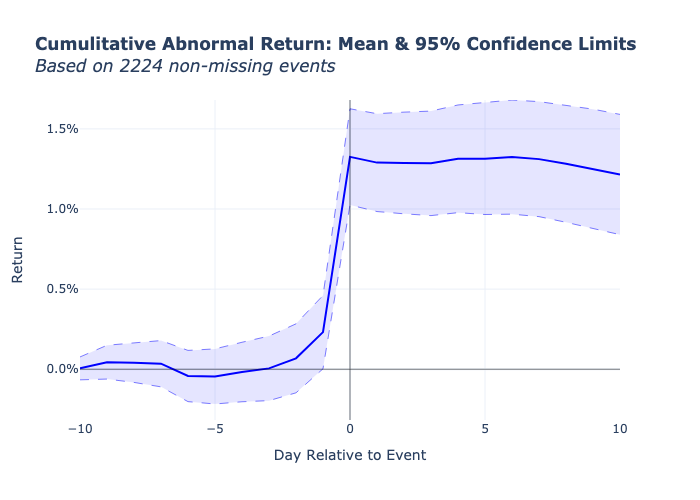
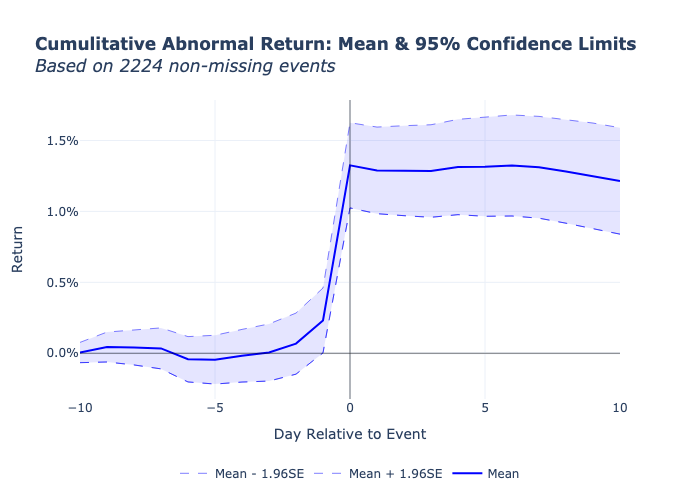
adding joint graph service

diff --git a/easy_es/utils.py b/easy_es/utils.py
@@ -51,7 +51,7 @@ def calculate_car_stats(event_res_df: pd.DataFrame, critical_value: float = 0.95
     return stat_car_df
 
 
-def plot_mean_car(event_res_df: pd.DataFrame, critical_value: float = 0.95) -> go.Figure:
+def plot_mean_car(event_res_df: pd.DataFrame, critical_value: float = 0.95, color_rgb: str = '0, 0, 255') -> go.Figure:
     """
     Function to plot the mean CAR effect with confidence levels over the event window
     Parameters
@@ -60,6 +60,8 @@ def plot_mean_car(event_res_df: pd.DataFrame, critical_value: float = 0.95) -> g
         Result dataframe from the output of event-study. Should contain event_id, offset, and car columns.
     critical_value : float, optional
         Critical value to use in confidence intervals estimation, by default 0.95
+    color_rgb: str
+        String specifying rgb color to be used in the plot. Default, blue (0,0,255)
 
     Returns
     -------
@@ -67,34 +69,44 @@ def plot_mean_car(event_res_df: pd.DataFrame, critical_value: float = 0.95) -> g
         Plotly figure
     """
     plot_df = calculate_car_stats(event_res_df=event_res_df, critical_value=critical_value)
+    conf_level = np.round(- norm.ppf((1-critical_value) / 2), 2)
     # Add Mean Trace
     trace_one = go.Scatter(
         x=plot_df.index,
         y=plot_df['mean'],
-        name='mean',
-        showlegend=False,
+        name='Mean',
+        showlegend=True,
         mode='lines',
-        line=dict(color='rgb(0, 0, 255)')
+        line=dict(color=f'rgb({color_rgb})')
     )
     # Add trace for the upper bound
     trace_fill_one = go.Scatter(
         x=plot_df.index,
         y=plot_df['upper_ci'],
-        name='Upper CI',
+        name=f'Mean + {conf_level}SE',
         mode='lines',
-        line=dict(width=1, color='rgba(0, 0, 255, 0.5)', dash='dash'),
-        showlegend=False,
+        line=dict(width=1, color=f'rgba({color_rgb}, 0.5)', dash='dash'),
+        showlegend=True,
         
     )
     # Add trace for the lower bound
     trace_fill_two = go.Scatter(
         x=plot_df.index,
         y=plot_df['lower_ci'],
-        fill='tonextx',
-        name='Lower CI',
+        name=f'Mean - {conf_level}SE',
         mode='lines',
-        fillcolor='rgba(0,0,255,0.1)',
-        line=dict(width=1, color='rgba(0, 0,255, 0.5)', dash='dash'),
+        line=dict(width=1, color=f'rgba({color_rgb}, 0.5)', dash='dash'),
+        showlegend=True,
+    )
+    # Add trace for the lower bound
+    trace_fill_two_shade = go.Scatter(
+        x=plot_df.index,
+        y=plot_df['lower_ci'],
+        fill='tonextx',
+        name='ShadedArea',
+        mode='lines',
+        fillcolor=f'rgba({color_rgb},0.1)',
+        line=dict(width=1, color=f'rgba({color_rgb}, 0.5)', dash='dash'),
         showlegend=False,
     )
     # Update layout  
@@ -104,13 +116,20 @@ def plot_mean_car(event_res_df: pd.DataFrame, critical_value: float = 0.95) -> g
         template='plotly_white',
         xaxis_title='Day Relative to Event',
         yaxis_title='Return',
-        yaxis_tickformat=',.1%'
+        yaxis_tickformat=',.1%',
+        legend=dict(
+                orientation="h",
+                xanchor = "center",
+                x=0.5,
+                y=-0.2
+        )        
     )
     fig = go.Figure(data=[
         trace_one, 
         trace_fill_one,
+        trace_fill_two_shade,
         trace_fill_two
-        ], layout=layout,
+        ], layout=layout
     )
     fig.add_vline(
         x=0, 
@@ -121,3 +140,53 @@ def plot_mean_car(event_res_df: pd.DataFrame, critical_value: float = 0.95) -> g
         line_width=1, 
         line_color='rgba(0, 0,0, 0.5)')
     return fig
+
+
+def plot_joint_mean_car(event_res_one: pd.DataFrame, event_res_two: pd.DataFrame, 
+                        name_one: str, name_two: str,  critical_value: float = 0.95) -> go.Figure:
+    """
+    Function to plot two mean CAR effects with confidence levels ont the same plot.
+    
+    Parameters
+    ----------
+    event_res_one : pd.DataFrame
+        First result dataframe from the output of event-study. Should contain event_id, offset, and car columns.
+    event_res_two : pd.DataFrame
+        Second result dataframe from the output of event-study. Should contain event_id, offset, and car columns.
+    name_one : str
+        Name of the first event study
+    name_two : str
+        Name of the second event study
+    critical_value : float, optional
+        Critical value to use in confidence intervals estimation, by default 0.95
+    Returns
+    -------
+    go.Figure
+        Plotly figure
+    """
+    fig_one = plot_mean_car(event_res_one)
+    fig_two = plot_mean_car(event_res_two, color_rgb='0, 153, 0')
+    for trace in fig_one.data:
+        trace.legendgroup = 'group1'
+        trace.legendgrouptitle=dict(text=f'<b>{name_one}</b> ({event_res_one[ColumnNameHandler.event_id_col].nunique()} events)')
+
+    for trace in fig_two.data:
+        trace.legendgroup = 'group2'
+        trace.legendgrouptitle=dict(text=f'<b>{name_two}</b> ({event_res_two[ColumnNameHandler.event_id_col].nunique()} events)')
+
+    for trace in fig_one.data:
+        fig_two.add_trace(trace)
+
+    fig_two.update_layout(
+        title=f"""<b>Cumulitative Abnormal Return: Mean & {round(critical_value*100)}% Confidence Limits</b><br>""",
+        legend=dict(
+            tracegroupgap=50,
+            orientation="h",
+            xanchor = "center",
+            x=0.55,
+            y=-0.3,
+            entrywidth=200,
+            traceorder='grouped'
+        )
+    )
+    return fig_two

diff --git a/setup.py b/setup.py
@@ -1,6 +1,6 @@
 from setuptools import setup, find_packages
 
-VERSION = '0.0.5'
+VERSION = '0.0.6'
 DESCRIPTION = 'Python Event Financial Study'
 LONG_DESCRIPTION = 'Python package to conduct basic event financial study'
 

diff --git a/easy_es/__init__.py b/easy_es/__init__.py
@@ -1,2 +1,2 @@
 from .event_study_model import EventStudy
-from .utils import plot_mean_car, calculate_car_stats
+from .utils import plot_mean_car, calculate_car_stats, plot_joint_mean_car

diff --git a/README.md b/README.md
@@ -52,6 +52,26 @@ calculate_car_stats(event_res_df=event_res_df, critical_value=0.95)
 # Plot mean effect with confidence levels
 plot_mean_car(event_res_df=event_res_df, critical_value=0.95)
 ```
+One could also plot the results of two event studies on the same graph, using:
+```
+from easy_es.utils import plot_joint_mean_car
+
+event_res_increase = event_study.run_study(events_df_increase)
+event_res_decrease = event_study.run_study(events_df_decrease)
+
+plot_joint_mean_car(
+    event_res_increase, 
+    event_res_decrease, 
+    name_one='Increase', 
+    name_two='Decrease'
+)
+```
+<p align="center">
+<img src="imgs/example_two.png" alt="image" width="800" height="auto" alt='Methodology'>
+</p>
+<p align="center">
+  <i>Example of a joint mean CAR plot</i>
+</p>
 ### Factors data
 All daily factors are downloaded for the official [Fama-French data library](https://mba.tuck.dartmouth.edu/pages/faculty/ken.french/data_library.html).
 
